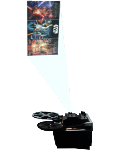
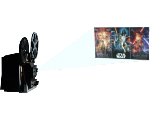
changed background img

diff --git a/src/Components/BannerImg/BannerImg.js b/src/Components/BannerImg/BannerImg.js
@@ -1,5 +1,5 @@
 import "./BannerImg.css";
-import BackgroundImg from "./banner-img.png"
+import BackgroundImg from "../../img/swapi-background.png"
 
 function BannerImg() {
   return (
